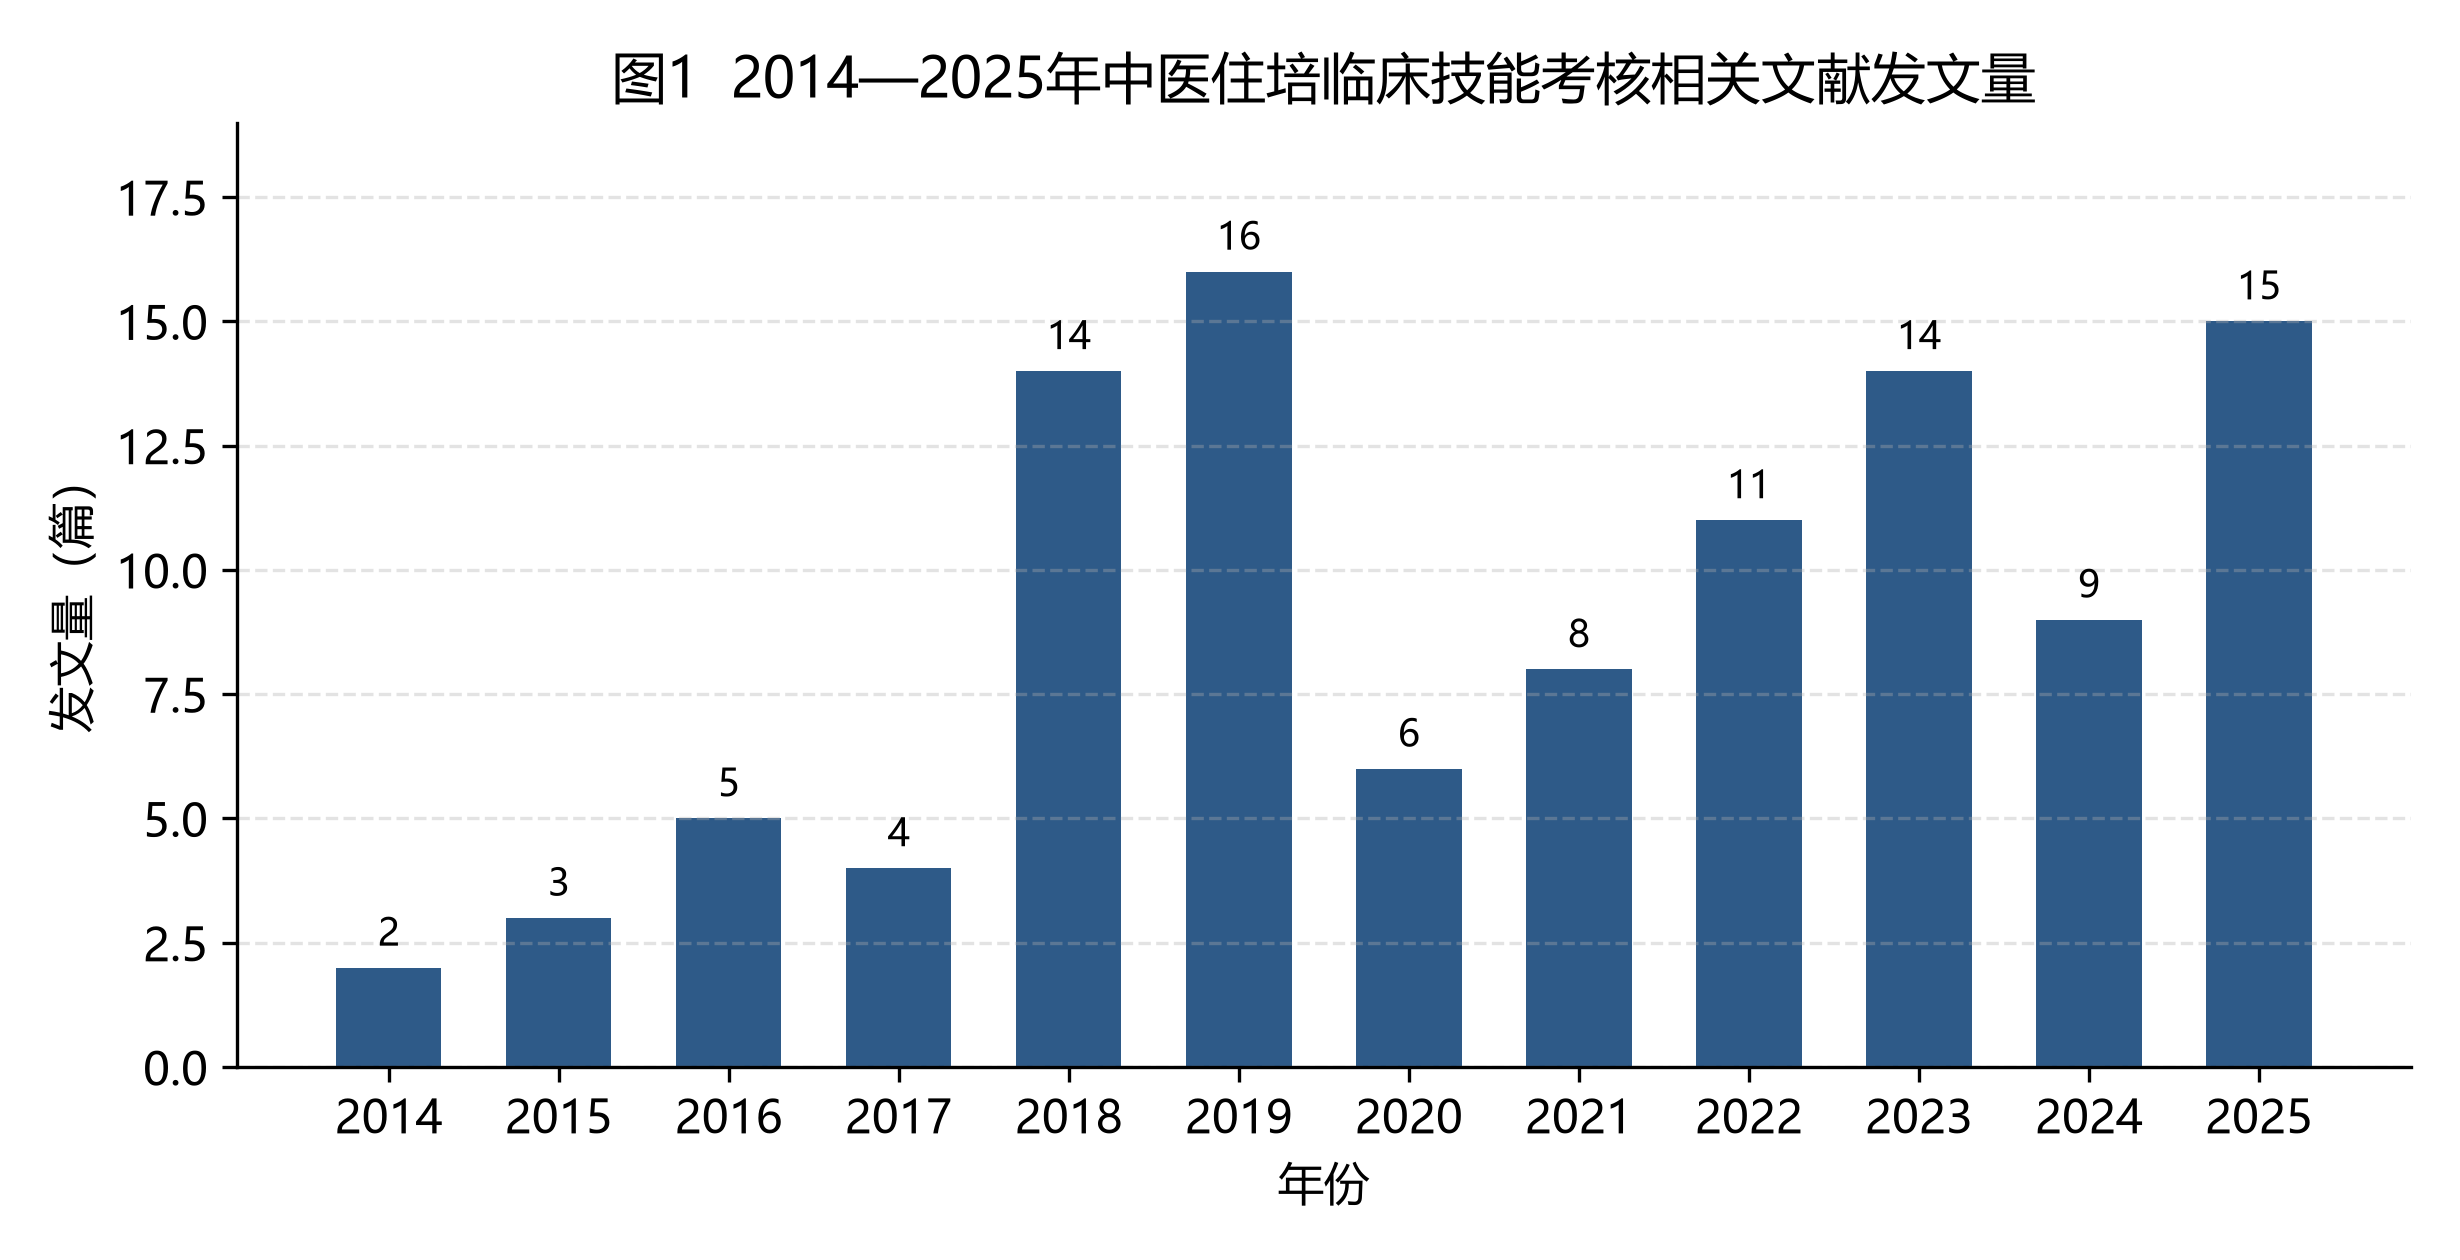
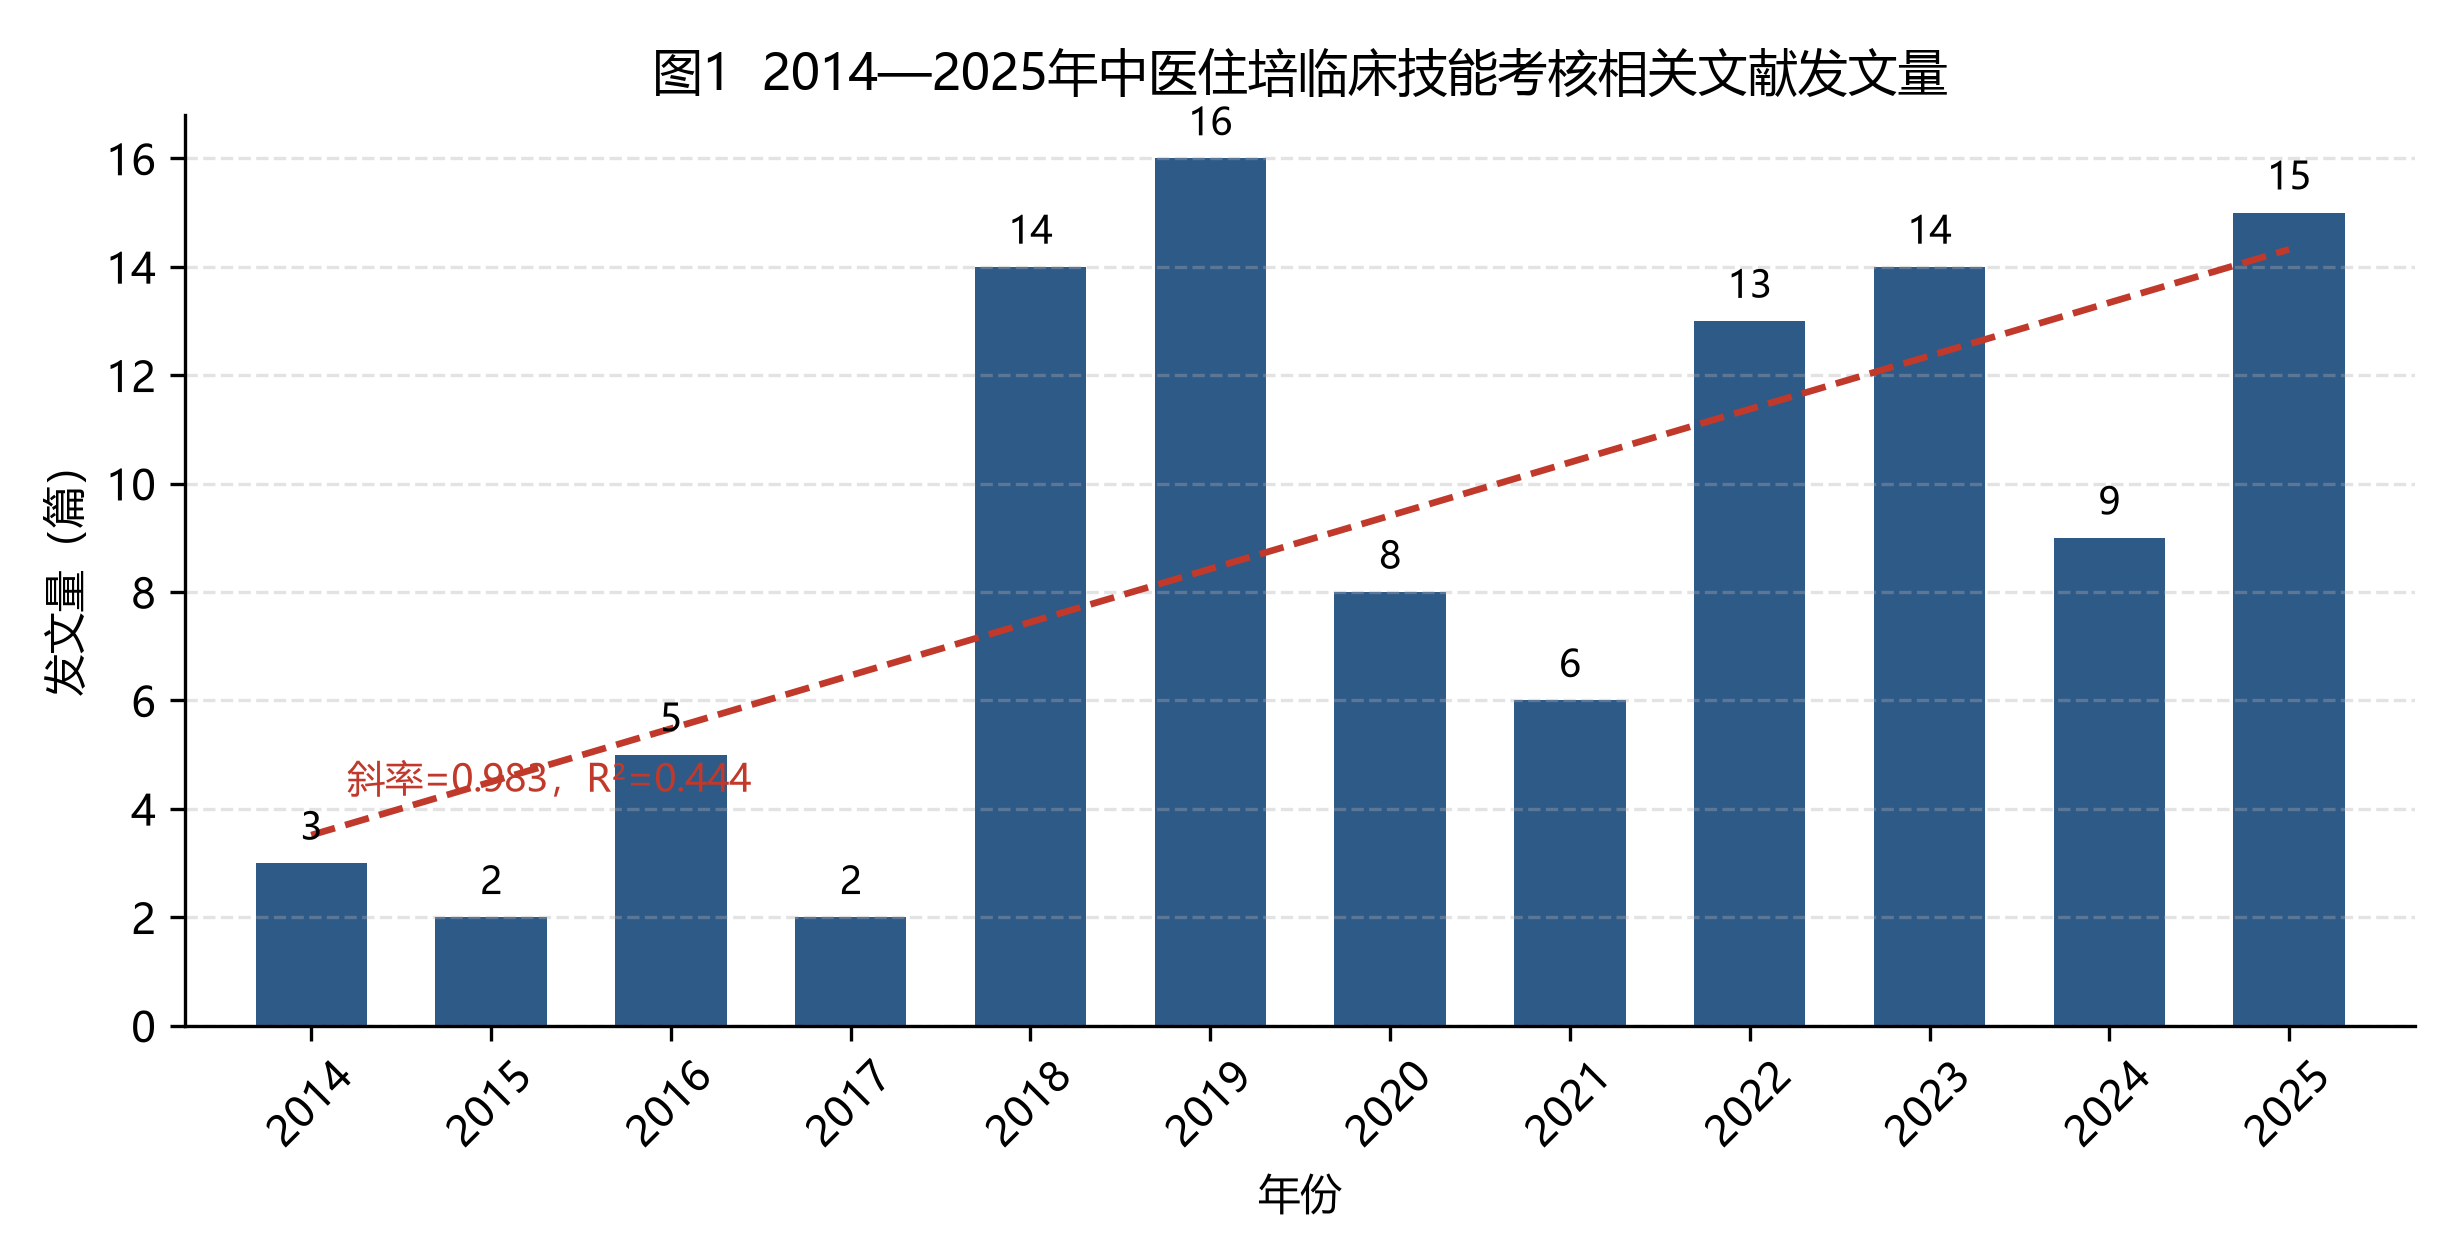
Reproducibility fix v1.0.1: deposit exact yearly counts (recovered, regression-verified), enable Fig1+regression regeneration in scripts, correct README caveats, refresh MANIFEST + figures

diff --git a/scripts/figures.py b/scripts/figures.py
@@ -59,19 +59,37 @@ def fig1():
     ys, cnt = [], []
     for r in csv.DictReader(YEARLY.open(encoding="utf-8-sig")):
         if r["n_articles"].strip():
-            ys.append(r["year"]); cnt.append(int(r["n_articles"]))
-    if not cnt:
+            ys.append(int(r["year"])); cnt.append(int(r["n_articles"]))
+    n = len(ys)
+    if n < 2:
         print("[skip] Fig1: yearly_counts.csv empty"); return
+    xs = [float(x) for x in ys]
+    mx, my = sum(xs) / n, sum(cnt) / n
+    sxx = sum((x - mx) ** 2 for x in xs)
+    sxy = sum((x - mx) * (y - my) for x, y in zip(xs, cnt))
+    slope = sxy / sxx
+    intercept = my - slope * mx
+    ss_tot = sum((y - my) ** 2 for y in cnt)
+    ss_res = sum((y - (intercept + slope * x)) ** 2 for x, y in zip(xs, cnt))
+    r2 = 1 - ss_res / ss_tot if ss_tot else float("nan")
     fig, ax = plt.subplots(figsize=(8.2, 4.2))
-    b = ax.bar(ys, cnt, color=C, width=0.62)
+    b = ax.bar(xs, cnt, color=C, width=0.62)
+    xmin, xmax = min(xs), max(xs)
+    ax.plot([xmin, xmax], [intercept + slope * xmin, intercept + slope * xmax],
+            "--", color="#C0392B", lw=1.6)
+    ax.text(xmin + 0.2, intercept + slope * xmin + 0.8,
+            f"斜率={slope:.3f}，R²={r2:.3f}", color="#C0392B", fontsize=9)
     for bb, c in zip(b, cnt):
-        ax.text(bb.get_x() + bb.get_width() / 2, c + 0.25, str(c), ha="center", va="bottom", fontsize=9)
+        ax.text(bb.get_x() + bb.get_width() / 2, c + 0.25, str(c),
+                ha="center", va="bottom", fontsize=9)
     ax.set_xlabel("年份"); ax.set_ylabel("发文量（篇）")
     ax.set_title("图1  2014—2025年中医住培临床技能考核相关文献发文量")
+    ax.set_xticks(xs); ax.set_xticklabels([str(int(x)) for x in xs], rotation=45)
+    ax.set_xlim(xmin - 0.7, xmax + 0.7)
     ax.spines["top"].set_visible(False); ax.spines["right"].set_visible(False)
     ax.grid(axis="y", linestyle="--", alpha=0.35)
     fig.tight_layout(); fig.savefig(OUT / "图1_年发文趋势.png", dpi=300); plt.close(fig)
-    print("wrote 图1_年发文趋势.png")
+    print(f"wrote 图1_年发文趋势.png (slope={slope:.3f}, R2={r2:.3f}, total={sum(cnt)})")
 
 
 if __name__ == "__main__":

diff --git a/README.md b/README.md
@@ -20,12 +20,12 @@ This repository contains the coded data, the analysis/plotting scripts, and the 
 ├── author_verification_statement.md
 ├── data/
 │   ├── coding_aggregates.csv    # EXACT aggregated results reported in the paper
-│   ├── bibliography_template.csv# 36 core references cited in the paper (coding columns blank)
-│   └── yearly_counts_template.csv # annual counts (to be completed from CNKI export)
+│   ├── bibliography_template.csv# 36 core references; full 107-row bibliography pending CNKI export
+│   └── yearly_counts.csv        # EXACT per-year counts 2014–2025 (recovered, regression-verified)
 ├── scripts/
 │   ├── descriptives.py          # descriptive statistics + annual trend regression
-│   └── figures.py               # regenerates Figures 1–3
-└── .github/workflows/release.yml
+│   └── figures.py               # regenerates Figures 1–3 (incl. trend line + regression annotation)
+└── figures/                     # the three manuscript figures (PNG, 300 dpi)
 ```
 
 ---
@@ -33,10 +33,9 @@ This repository contains the coded data, the analysis/plotting scripts, and the 
 ## Data provenance and **important caveats**
 
 - **Source.** All 107 articles were retrieved from the **CNKI journal database** (search date **2025-06-10**), publication window **2014-01-01 – 2025-12-31**, using the Boolean search string documented in the manuscript (Section 2.1).
-- **What is exact here.** `data/coding_aggregates.csv` reproduces **verbatim** the counts/percentages reported in the manuscript (research theme; assessment format; teaching method; evaluation tool; TCM-specific and emergency-skill flags; year-segment totals). These are directly verifiable against the published tables.
-- **What the author must complete.** The full **107-row** bibliographic table (title / author / year / source / codes) is **not** included in this scaffold. The author must export it from CNKI (search date 2025-06-10) and append the rows to `data/bibliography_template.csv`, then fill `data/yearly_counts_template.csv` with the per-year counts.
-- **Figure 1 caveat.** The exact **per-year** counts (2014–2025) were not available as a machine-readable file when this package was assembled. The manuscript's Figure 1 was therefore rendered from a series **reconstructed** to satisfy every published constraint — the year-segment totals (10 / 40 / 33 / 24) and the four named single-year peaks (2018 = 14, 2019 = 16, 2023 = 14, 2025 = 15). Once `yearly_counts.csv` is completed from the CNKI export, re-run `scripts/figures.py` to regenerate the figure from **exact** values and re-compute the trend regression with `scripts/descriptives.py`.
-- **Reported trend.** The manuscript reports a linear slope of **0.983** and **R² = 0.444** (manuscript Sections 2.5 / 3.1). These should be re-verified against the completed `yearly_counts.csv`.
+- **What is exact here.** `data/coding_aggregates.csv` reproduces **verbatim** the counts/percentages reported in the manuscript (research theme; assessment format; teaching method; evaluation tool; TCM-specific and emergency-skill flags; year-segment totals). `data/yearly_counts.csv` now contains the **exact per-year counts (2014–2025)**, recovered from the original embedded figure of the manuscript and verified to reproduce the reported trend regression (**slope = 0.983, R² = 0.444, total = 107**). Re-running `scripts/descriptives.py` and `scripts/figures.py` regenerates Figure 1 and the regression from these exact values — the deposited figures and the published manuscript are therefore reproducible from first principles.
+- **What the author must still complete.** The full **107-row** bibliographic table (title / author / year / source / codes) is **not yet** included. The author must export it from CNKI (search date 2025-06-10) and append the rows to `data/bibliography_template.csv`. Until that is done, the manuscript's data-availability statement (§2.6, "107-article bibliography and coding table deposited") is **only partially satisfied** by this package: the deposited materials are the aggregated coding results, the exact yearly counts, the analysis scripts, the three figures, and this README/MANIFEST. The author should either complete the 107-row table before submission or tighten §2.6 to describe only what is actually deposited.
+- **Continuous-release workflow.** The optional GitHub Actions workflow (`.github/workflows/release.yml`) is **not bundled** in this release because the repository was created with a token lacking the `workflow` scope. The workflow file is supplied separately by the author; once added with a token that has `workflow` scope, pushing a `v*` tag will auto-generate MANIFEST.txt and a release containing the figures.
 
 ---
 
@@ -50,7 +49,7 @@ python scripts/descriptives.py
 python scripts/figures.py
 ```
 
-No external data download is required to reproduce the aggregated tables and Figures 2–3. Figure 1 requires the completed `data/yearly_counts.csv`.
+No external data download is required: all aggregated tables and Figures 1–3 reproduce directly from the deposited data files.
 
 ---
 
